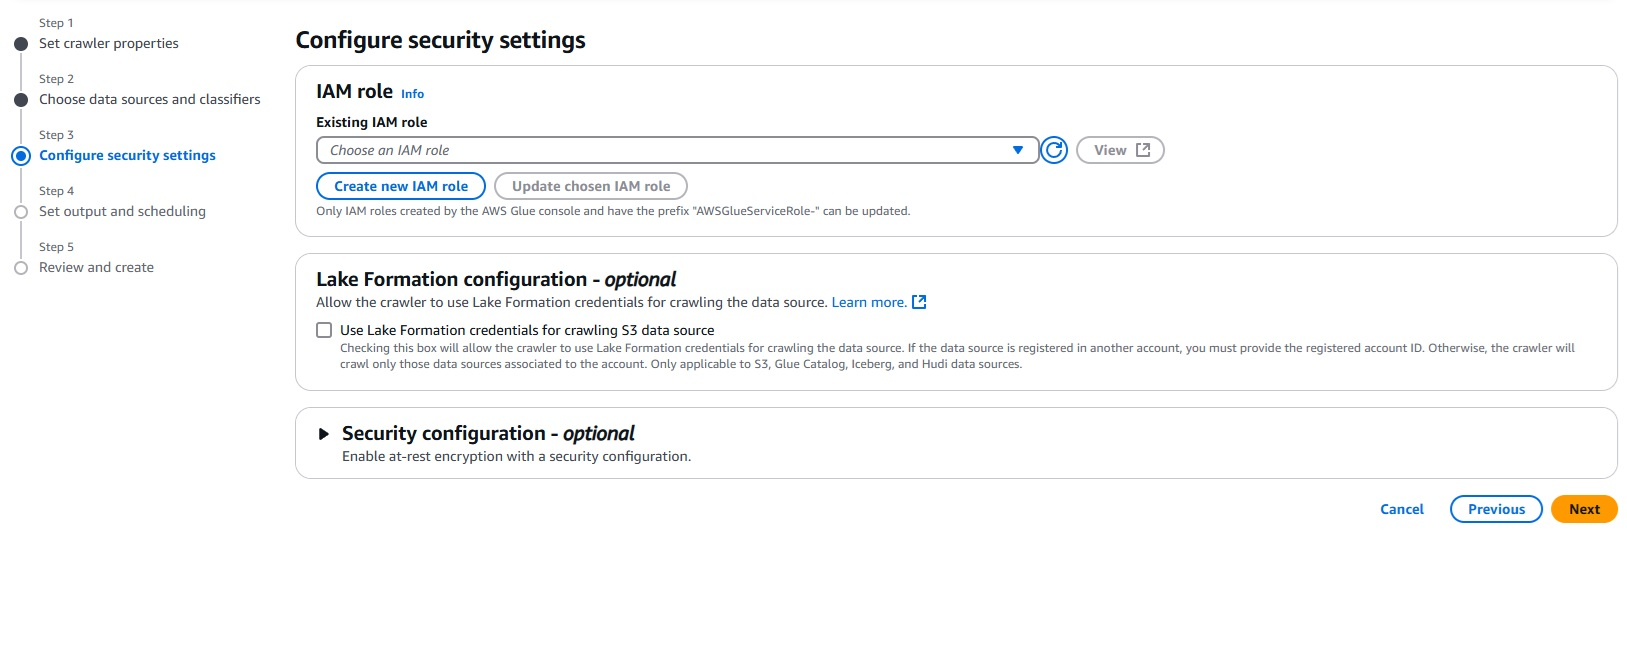
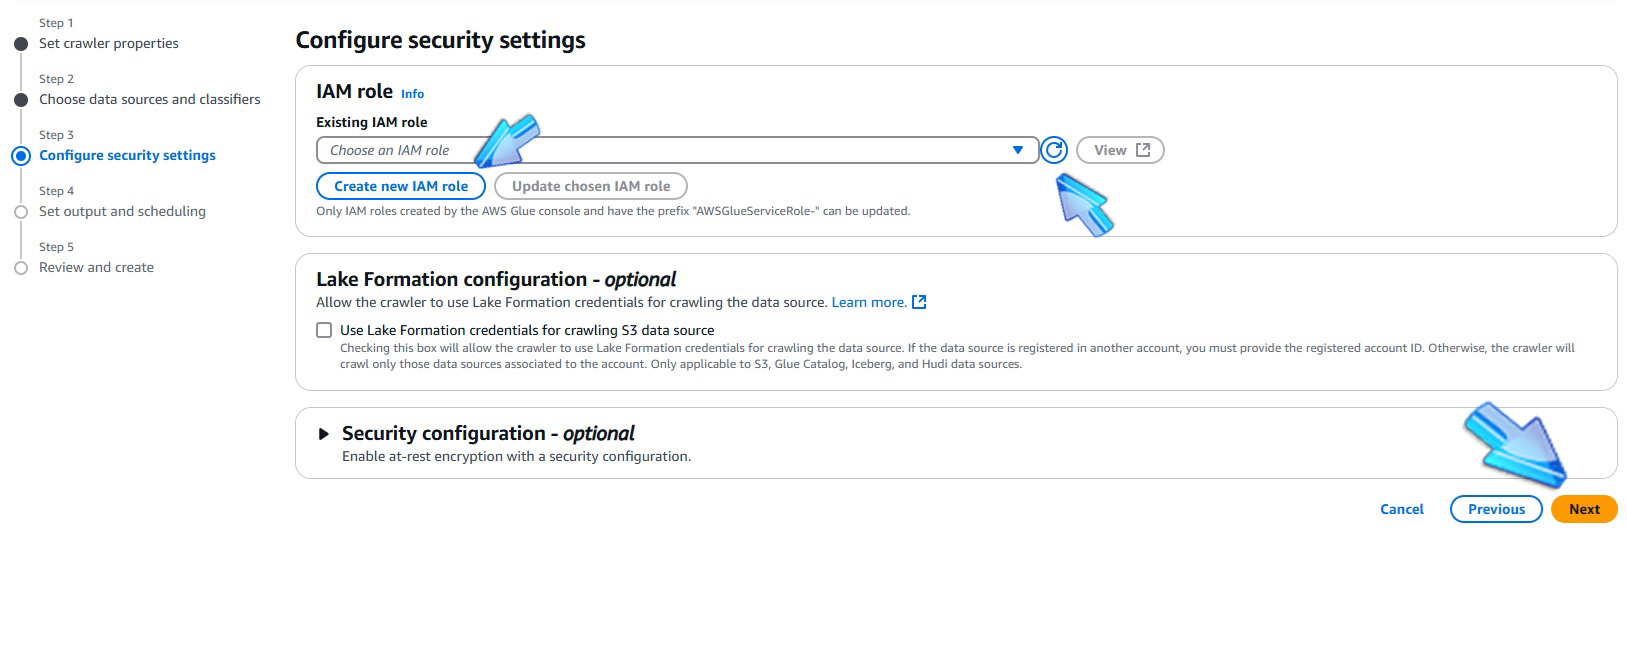
Update AWS Glue documentation images for IAM role visuals

Changed region(s): [[0.8912, 0.6173, 0.9834, 0.8025], [0.1844, 0.1852, 0.338, 0.3086], [0.6454, 0.2469, 0.7068, 0.3704]]

diff --git a/thisisthelab.md b/thisisthelab.md
@@ -152,5 +152,12 @@
 
 ![AWS Glue Crawler with a S3 bucket as Data Source](./images/16a-AWSGlueCrawlerDataSource.jpg)
 
+###### ![Brazil](https://github.com/Acheroniano/flag-icon/blob/master/png/16/country-4x3/br.png "Brazil") 
+###### Nas configurações de segurança crie uma IAM ROLE para AWS GLUE.
 
+###### ![United States](https://github.com/Acheroniano/flag-icon/blob/master/png/16/country-4x3/us.png "United States") 
+###### In security settings create a IAM ROLE for AWS GLUE.
+
+![AWS Glue Crawler IAM ROLE](./images/17a-AWSGlueCrawlerIAMRole.jpg)
+![AWS Glue Crawler IAM ROLE Name](./images/18a-AWSGlueCrawlerIAMRoleName.jpg)
 
